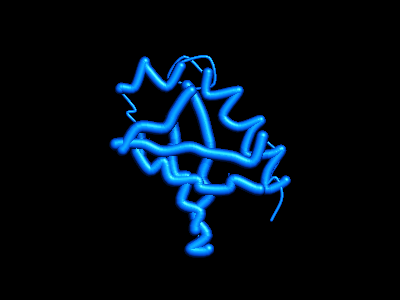
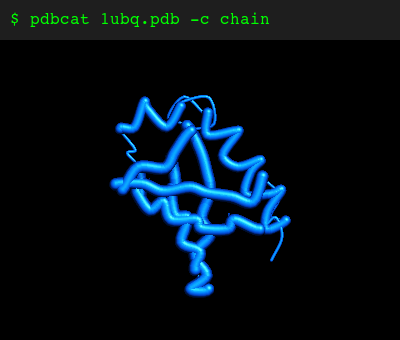
feat: remove ball-and-stick, add terminal-style screenshots
- Remove Ball-and-Stick representation (didn't work well)
- Update example images to show terminal command in header
- Simplify README with cleaner example layout

Changed region(s): [[0.27, 0.18, 0.75, 0.9], [0.0, 0.0, 1.0, 0.12]]

diff --git a/src/ui/mod.rs b/src/ui/mod.rs
@@ -617,9 +617,6 @@ impl App {
                 Representation::Backbone => {
                     self.render_backbone(buffer, projected, scale, z_min, z_max);
                 }
-                Representation::BallAndStick => {
-                    self.render_ball_and_stick(buffer, projected, scale, z_min, z_max);
-                }
                 Representation::Cartoon => {
                     self.render_cartoon(buffer, projected, scale, z_min, z_max);
                 }
@@ -701,120 +698,6 @@ impl App {
 
                 prev = Some((atom.chain_id, atom.residue_seq, info.x, info.y, info.z, color));
             }
-        }
-    }
-
-    fn render_ball_and_stick(
-        &self,
-        buffer: &mut PixelBuffer,
-        projected: &[(usize, ProjInfo)],
-        scale: f32,
-        z_min: f32,
-        z_max: f32,
-    ) {
-        use crate::render::braille::depth_cue;
-
-        // PyMOL-style ball-and-stick: small spheres at atom positions with thin bond cylinders
-        // Balls should be ~25% of VdW radius, sticks should be thin but visible
-        let ball_scale = 0.25; // 25% of VdW radius for small, visible spheres
-        let stick_radius_base = 1.8; // Fixed thin stick radius in pixels
-
-        // Build projection map with computed ball radii
-        let mut proj_map: Vec<Option<(ProjInfo, f32)>> = vec![None; self.molecule.atoms.len()];
-        for (idx, info) in projected {
-            let atom = &self.molecule.atoms[*idx];
-            // Use VdW radius scaled down for ball size
-            let ball_radius = atom.vdw_radius() * scale * ball_scale * info.size_scale / self.camera.zoom;
-            proj_map[*idx] = Some((*info, ball_radius));
-        }
-
-        // Collect all primitives - bonds first, then atoms on top
-        let mut primitives: Vec<Primitive> = Vec::with_capacity(self.molecule.bonds.len() * 2 + projected.len());
-
-        // Collect bond primitives (two-color: each half colored by its atom)
-        let mut bond_prims: Vec<(f32, Primitive)> = Vec::with_capacity(self.molecule.bonds.len() * 2);
-        for bond in &self.molecule.bonds {
-            if let (Some((p1, r1)), Some((p2, r2))) = (proj_map[bond.atom1], proj_map[bond.atom2]) {
-                // Direction from atom1 to atom2 in screen space
-                let dx = p2.x - p1.x;
-                let dy = p2.y - p1.y;
-                let dz = p2.z - p1.z;
-                let len = (dx * dx + dy * dy + dz * dz).sqrt();
-                if len < 0.1 {
-                    continue; // Skip zero-length bonds
-                }
-                let inv_len = 1.0 / len;
-                let nx = dx * inv_len;
-                let ny = dy * inv_len;
-                let nz = dz * inv_len;
-
-                // Trim bonds to start/end at sphere surfaces (not centers)
-                let trim1 = r1 * 0.8; // Start slightly inside sphere
-                let trim2 = r2 * 0.8;
-
-                // Bond endpoints trimmed to sphere surfaces
-                let x1 = p1.x + nx * trim1;
-                let y1 = p1.y + ny * trim1;
-                let z1 = p1.z + nz * trim1;
-                let x2 = p2.x - nx * trim2;
-                let y2 = p2.y - ny * trim2;
-                let z2 = p2.z - nz * trim2;
-
-                // Midpoint for two-color bond
-                let mx = (x1 + x2) * 0.5;
-                let my = (y1 + y2) * 0.5;
-                let mz = (z1 + z2) * 0.5;
-
-                // Stick radius: thin but visible, scales slightly with zoom
-                let stick_radius = (stick_radius_base * scale * p1.size_scale / self.camera.zoom).clamp(1.5, 4.0);
-
-                // Colors for each half
-                let color1 = if self.shading_enabled {
-                    depth_cue(p1.color, (z1 + mz) * 0.5, z_max, z_min)
-                } else {
-                    p1.color
-                };
-                let color2 = if self.shading_enabled {
-                    depth_cue(p2.color, (mz + z2) * 0.5, z_max, z_min)
-                } else {
-                    p2.color
-                };
-
-                // First half (atom1 color)
-                bond_prims.push(((z1 + mz) * 0.5, Primitive::cylinder(x1, y1, z1, mx, my, mz, stick_radius, color1)));
-                // Second half (atom2 color)
-                bond_prims.push(((mz + z2) * 0.5, Primitive::cylinder(mx, my, mz, x2, y2, z2, stick_radius, color2)));
-            }
-        }
-
-        // Sort bonds back to front, add to primitives FIRST (drawn first, behind atoms)
-        bond_prims.sort_by(|a, b| b.0.partial_cmp(&a.0).unwrap_or(std::cmp::Ordering::Equal));
-        for (_, prim) in bond_prims {
-            primitives.push(prim);
-        }
-
-        // Collect atom primitives sorted back to front - DRAW AFTER bonds (on top)
-        let mut sorted: Vec<_> = projected.iter().collect();
-        sorted.sort_by(|a, b| b.1.z.partial_cmp(&a.1.z).unwrap_or(std::cmp::Ordering::Equal));
-
-        for (idx, info) in sorted {
-            let atom = &self.molecule.atoms[*idx];
-            let radius = atom.vdw_radius() * scale * ball_scale * info.size_scale / self.camera.zoom;
-            let color = if self.shading_enabled {
-                depth_cue(info.color, info.z, z_max, z_min)
-            } else {
-                info.color
-            };
-            // Atoms drawn on top of bonds
-            primitives.push(Primitive::sphere(info.x, info.y, info.z, radius.clamp(3.0, 20.0), color));
-        }
-
-        if primitives.len() < TILE_THRESHOLD || !self.shading_enabled {
-            for prim in &primitives {
-                prim.draw_offset(buffer, 0, 0);
-            }
-        } else {
-            render_primitives_tiled(buffer, &primitives);
         }
     }
 
@@ -1466,7 +1349,7 @@ pub fn run_benchmark(path: &Path, molecule: Molecule) -> Result<(), UiError> {
     app.shading_enabled = true;
     app.auto_spin = true;
     app.show_hud = false;
-    app.representation = crate::render::Representation::BallAndStick;
+    app.representation = crate::render::Representation::Cartoon;
 
     // Fixed resolution for reproducible benchmarks (simulates 160x48 terminal with 2x4 pixels/cell)
     let mol_width: u16 = 160;

diff --git a/src/render/mod.rs b/src/render/mod.rs
@@ -19,8 +19,6 @@ pub use surface::{generate_surface, Triangle, SurfaceAtom};
 pub enum Representation {
     /// Backbone trace (Cα for proteins, P for nucleic acids)
     Backbone,
-    /// Ball-and-stick (atoms as spheres, bonds as cylinders)
-    BallAndStick,
     /// Cartoon/ribbon (secondary structure visualization)
     #[default]
     Cartoon,
@@ -32,8 +30,7 @@ impl Representation {
     /// Cycle to the next representation
     pub fn next(self) -> Self {
         match self {
-            Representation::Backbone => Representation::BallAndStick,
-            Representation::BallAndStick => Representation::Cartoon,
+            Representation::Backbone => Representation::Cartoon,
             Representation::Cartoon => Representation::Surface,
             Representation::Surface => Representation::Backbone,
         }
@@ -43,7 +40,6 @@ impl Representation {
     pub fn name(&self) -> &'static str {
         match self {
             Representation::Backbone => "Backbone",
-            Representation::BallAndStick => "Ball-and-Stick",
             Representation::Cartoon => "Cartoon",
             Representation::Surface => "Surface",
         }

diff --git a/src/main.rs b/src/main.rs
@@ -38,7 +38,7 @@ struct Args {
     #[arg(long, short = 'r')]
     resolution: Option<String>,
 
-    /// Representation mode (cartoon, ball-and-stick, surface, backbone)
+    /// Representation mode (cartoon, surface, backbone)
     #[arg(long, default_value = "cartoon")]
     repr: String,
 
@@ -99,11 +99,10 @@ fn main() -> ExitCode {
     // Parse representation
     let repr = match args.repr.to_lowercase().as_str() {
         "cartoon" => render::Representation::Cartoon,
-        "ball-and-stick" | "ballandstick" | "bas" => render::Representation::BallAndStick,
         "surface" => render::Representation::Surface,
         "backbone" => render::Representation::Backbone,
         _ => {
-            eprintln!("Error: Unknown representation '{}'. Use: cartoon, ball-and-stick, surface, backbone", args.repr);
+            eprintln!("Error: Unknown representation '{}'. Use: cartoon, surface, backbone", args.repr);
             return ExitCode::from(1);
         }
     };

diff --git a/README.md b/README.md
@@ -1,32 +1,26 @@
 # pdbcat
 
-```
-pdbcat 1ubq.pdb
-```
-
-![pdbcat output](assets/iterm2-cartoon.png)
+![pdbcat demo](assets/demo.png)
 
 A quick terminal viewer for PDB and mmCIF files. **Not a replacement for PyMOL or ChimeraX**—just a fast way to glance at a structure without leaving the terminal.
 
 ## Examples
 
-### iTerm2 Backend (high resolution inline images)
+### Representations
 
-| Cartoon | Ball-and-Stick | Surface | Backbone |
-|---------|----------------|---------|----------|
-| ![cartoon](assets/iterm2-cartoon.png) | ![bas](assets/iterm2-bas.png) | ![surface](assets/iterm2-surface.png) | ![backbone](assets/iterm2-backbone.png) |
-
-### Half-Block Backend (works in any terminal)
-
-| Cartoon | Ball-and-Stick | Surface | Backbone |
-|---------|----------------|---------|----------|
-| ![cartoon](assets/half-cartoon.png) | ![bas](assets/half-bas.png) | ![surface](assets/half-surface.png) | ![backbone](assets/half-backbone.png) |
+| Cartoon | Surface | Backbone |
+|---------|---------|----------|
+| ![cartoon](assets/cartoon.png) | ![surface](assets/surface.png) | ![backbone](assets/backbone.png) |
 
 ### Color Schemes
 
 | Chain | Rainbow | Secondary Structure |
 |-------|---------|---------------------|
 | ![chain](assets/color-chain.png) | ![rainbow](assets/color-rainbow.png) | ![secondary](assets/color-secondary.png) |
+
+### Half-Block Backend (any terminal)
+
+![half-block](assets/half-block.png)
 
 ## Installation
 
@@ -49,7 +43,6 @@ pdbcat structure.pdb
 
 # Different representations
 pdbcat structure.pdb --repr cartoon      # default
-pdbcat structure.pdb --repr ball-and-stick
 pdbcat structure.pdb --repr surface
 pdbcat structure.pdb --repr backbone
 
@@ -57,11 +50,6 @@ pdbcat structure.pdb --repr backbone
 pdbcat structure.pdb -c chain            # default
 pdbcat structure.pdb -c rainbow
 pdbcat structure.pdb -c secondary
-
-# Background options
-pdbcat structure.pdb --bg black          # default
-pdbcat structure.pdb --bg white
-pdbcat structure.pdb --bg transparent
 
 # Force specific backend
 pdbcat structure.pdb --backend iterm2
@@ -72,7 +60,6 @@ pdbcat structure.pdb -i
 
 # Export to PNG
 pdbcat structure.pdb -o output.png
-pdbcat structure.pdb -o output.png -r 1920x1080
 ```
 
 ## Command Line Options
@@ -83,9 +70,8 @@ pdbcat structure.pdb -o output.png -r 1920x1080
 | `-i, --interactive` | Interactive mode with keyboard/mouse controls |
 | `-o, --output PATH` | Export to PNG file |
 | `-r, --resolution WxH` | Resolution (default: terminal size for stdout, 800x600 for -o) |
-| `--repr MODE` | Representation: cartoon, ball-and-stick, surface, backbone |
+| `--repr MODE` | Representation: cartoon, surface, backbone |
 | `-c, --color SCHEME` | Color scheme: chain, rainbow, secondary |
-| `--no-shading` | Disable shading (flat colors) |
 | `--bg COLOR` | Background: white, black (default), transparent |
 | `--backend MODE` | Force render backend: iterm2, half (auto-detect if not set) |
 
